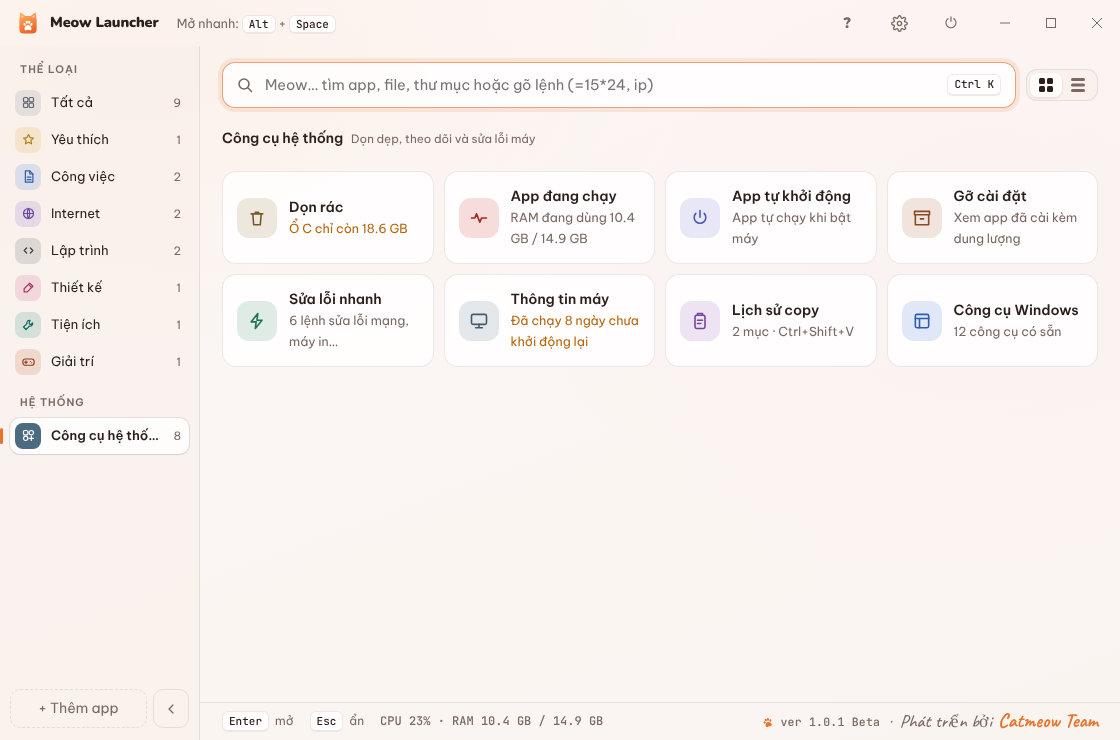
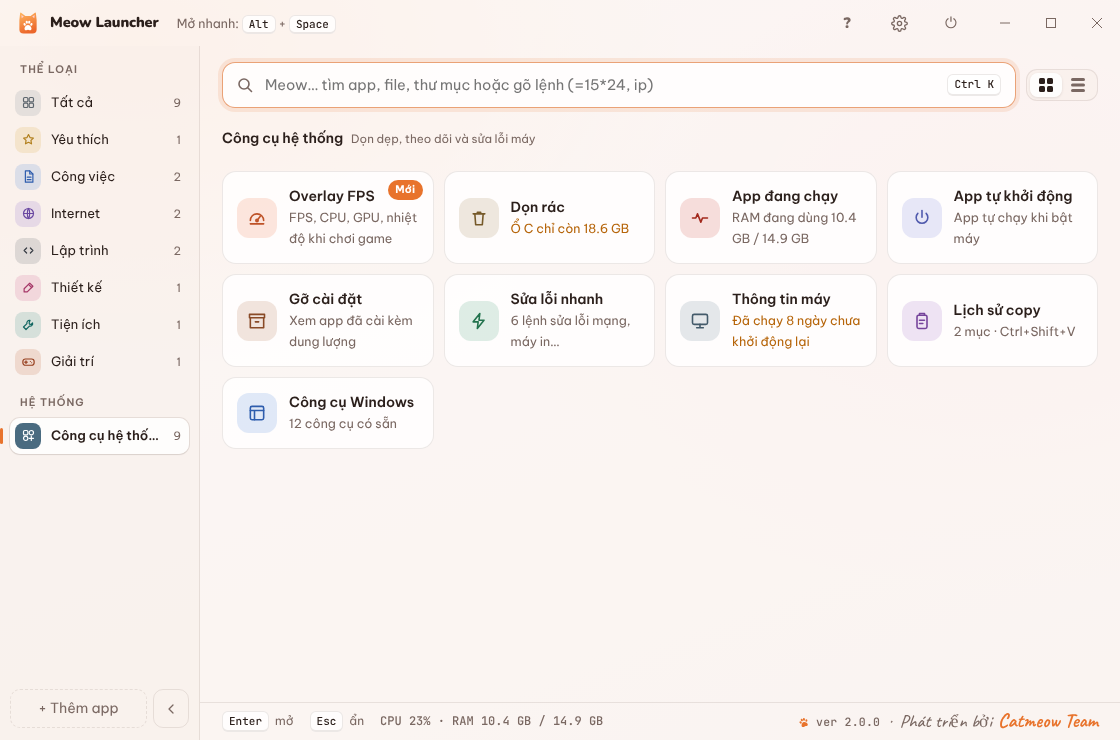
Add files via upload

diff --git a/tools/mkbanner.js b/tools/mkbanner.js
@@ -17,7 +17,7 @@ ${paws}
 <text x="440" y="200" font-family="Nunito" font-weight="900" font-size="92" fill="#2b1f1b">Meow Launcher</text>
 <text x="444" y="252" font-family="Be Vietnam Pro" font-weight="600" font-size="28" fill="#7a6862">Mở app theo thể loại chỉ với Alt + Space</text>
 <text x="444" y="292" font-family="Be Vietnam Pro" font-weight="600" font-size="22" fill="#a08f88">A cute cat-themed launcher &amp; PC care tool for Windows</text>
-<g transform="translate(444 322)"><rect width="196" height="40" rx="20" fill="#e8732c"/><text x="98" y="27" text-anchor="middle" font-family="Be Vietnam Pro" font-weight="600" font-size="17" fill="#fff">ver 1.0.1 Beta</text></g>
+<g transform="translate(444 322)"><rect width="196" height="40" rx="20" fill="#e8732c"/><text x="98" y="27" text-anchor="middle" font-family="Be Vietnam Pro" font-weight="600" font-size="17" fill="#fff">ver 2.0.0</text></g>
 <text x="660" y="349" font-family="Be Vietnam Pro" font-weight="600" font-size="17" fill="#a08f88">Phát triển bởi Catmeow Team</text>
 </svg>`.normalize('NFC');
 const strip = `<svg xmlns="http://www.w3.org/2000/svg" width="900" height="200" viewBox="0 0 900 200"><rect width="900" height="200" rx="24" fill="#faf6f4"/>

diff --git a/tools/mksidebar.js b/tools/mksidebar.js
@@ -27,7 +27,7 @@ function sidebar({ top, bottom, bubble, line1, line2 }) {
   <rect x="134" y="420" width="60" height="5" rx="2.5" fill="#fff" opacity=".6"/>
   <text x="164" y="462" text-anchor="middle" font-family="Be Vietnam Pro" font-weight="600" font-size="19" fill="#fff">${line1}</text>
   <text x="164" y="490" text-anchor="middle" font-family="Be Vietnam Pro" font-weight="600" font-size="16" fill="#fff" opacity=".85">${line2}</text>
-  <text x="164" y="598" text-anchor="middle" font-family="Be Vietnam Pro" font-weight="600" font-size="13" fill="#fff" opacity=".8">ver 1.0.1 Beta · Catmeow Team</text>
+  <text x="164" y="598" text-anchor="middle" font-family="Be Vietnam Pro" font-weight="600" font-size="13" fill="#fff" opacity=".8">ver 2.0.0 · Catmeow Team</text>
   </svg>`;
 }
 const render = (svg, out) => {

diff --git a/tools/guide_src.py b/tools/guide_src.py
@@ -15,6 +15,7 @@ STEPS = [
 KEYS = [
   ('Alt+Space', 'Mở hoặc ẩn Meow Launcher'),
   ('Ctrl+Shift+V', 'Mở lịch sử copy'),
+  ('Ctrl+Alt+F', 'Bật hoặc tắt overlay FPS khi chơi game'),
   ('Ctrl+K', 'Nhảy vào ô tìm kiếm'),
   ('↑ ↓ ← →', 'Chọn app'),
   ('Enter', 'Mở app đang chọn'),
@@ -27,10 +28,12 @@ CMDS = [
   ('ip', 'Xem IP nội bộ và IP công cộng của máy.'),
   ('báo cáo', 'Tìm cả file và thư mục, ưu tiên file mở gần đây.'),
   ('tắt máy', 'Tắt máy, khởi động lại, khoá máy, ngủ, hẹn giờ tắt máy.'),
+  ('fps', 'Bật hoặc tắt overlay FPS và nhiệt độ.'),
   ('dns', 'Gõ tên lỗi hoặc tên công cụ để mở thẳng công cụ đó.'),
   ('device', 'Mở công cụ có sẵn của Windows: Device Manager, Services…'),
 ]
 TOOLS = [
+  ('ov', 'Overlay FPS', '#e8602a', 'Bảng nhỏ ở góc màn hình khi chơi game: FPS, CPU, GPU, RAM và nhiệt độ.'),
   ('clean', 'Dọn rác', '#8b6b2e', 'Quét tệp tạm, thùng rác, bộ nhớ đệm trình duyệt. Xác nhận rồi mới xoá.'),
   ('proc', 'App đang chạy', '#c42b1c', 'Xem app tốn CPU, RAM. Tắt từng app hoặc nhiều app một lúc.'),
   ('startup', 'App tự khởi động', '#5b6bd6', 'Tắt bớt app tự chạy khi bật máy để khởi động nhanh hơn.'),
@@ -54,6 +57,8 @@ FAQ = [
   ('Dữ liệu của tôi lưu ở đâu?', 'Trong <code>%APPDATA%\\Meow Launcher</code>. Cài lại hay nâng cấp không mất danh sách app. Muốn chép sang máy khác: Cài đặt › Xuất ra file, sang máy mới chọn Nhập từ file.'),
   ('Vì sao có hộp xác nhận Admin?', 'Một số việc cần quyền quản trị của Windows: dọn tệp tạm hệ thống, reset mạng, sửa máy in, bật tắt app khởi động cho mọi người dùng. Bấm Không thì Meow bỏ qua mục đó.'),
   ('Tắt app có mất file chưa lưu không?', 'Không. Meow đóng app như khi bạn bấm nút X, app sẽ hỏi lưu nếu cần. App nào không chịu tắt mới hiện nút Buộc tắt để bạn tự quyết.'),
+  ('Overlay không hiện trong game?', 'Chọn chế độ hiển thị <b>Borderless</b> hoặc <b>Windowed Fullscreen</b> trong game. Chế độ Fullscreen độc quyền sẽ che mọi cửa sổ khác. Đo FPS cần quyền Admin, bấm Có khi Windows hỏi.'),
+  ('Cập nhật Meow thế nào?', 'Meow tự xem bản mới trên GitHub và báo bằng thông báo. Bấm <b>Cập nhật ngay</b>, Meow tự tải, cài đè và mở lại, giữ nguyên app và cài đặt. Muốn xem tay: Cài đặt › Cập nhật › Kiểm tra ngay.'),
   ('Gỡ Meow Launcher thế nào?', 'Mở Cài đặt Windows › Ứng dụng › Meow Launcher › Gỡ cài đặt, hoặc dùng chính mục Gỡ cài đặt trong Meow.'),
 ]
 
@@ -147,11 +152,11 @@ EN = dict(
   ('Add your apps', 'On first launch, click <b>Scan apps on this PC</b>. Meow finds shortcuts in the Start Menu and on the desktop and sorts them into categories. Or drag shortcuts straight into the window.'),
   ('Summon Meow anywhere', 'Press ' + kbd('Alt+Space') + ', type the first few letters of an app and press <kbd>Enter</kbd>. Meow runs in the system tray and is ready as soon as Windows starts.'),
  ],
- KEYS=[('Alt+Space','Show or hide Meow Launcher'),('Ctrl+Shift+V','Open clipboard history'),('Ctrl+K','Jump to the search box'),('↑ ↓ ← →','Select an app'),('Enter','Open the selected app'),('Ctrl+Enter','Open the app as administrator'),('Delete','Remove the selected app from Meow'),('Esc','Clear search, go back, then hide the window')],
- CMDS=[('=15*24','Quick math, Enter copies the result. Supports + − × ÷, %, ^ and brackets.'),('ip','Show the local and public IP of this PC.'),('report','Find files and folders too, recently opened files first.'),('shut down','Shut down, restart, lock, sleep or set a shutdown timer.'),('dns','Type a problem or tool name to open that tool directly.'),('device','Open built-in Windows tools: Device Manager, Services…')],
- TOOLS=[('clean','Clean up','#8b6b2e','Scan temp files, Recycle Bin and browser caches. Nothing is deleted until you confirm.'),('proc','Running apps','#c42b1c','See which apps use the most CPU and RAM. Close one or many at once.'),('startup','Startup apps','#5b6bd6','Turn off apps that start with Windows so your PC boots faster.'),('uninst','Uninstall','#a3562a','Installed apps with their size, uninstall right there.'),('fix','Quick fixes','#1f8a5b','Flush DNS, renew IP, reset network, fix the printer, restart Explorer.'),('info','PC info','#4a6b80','Specs, IP, MAC, drives. Copy it all for IT in one click.'),('clip','Clipboard history','#8a4fbf','Your last 50 copies, pin the ones you reuse, search them anytime.'),('win','Windows tools','#2f6fd6','Control Panel, Device Manager, Disk Management, Services…')],
+ KEYS=[('Alt+Space','Show or hide Meow Launcher'),('Ctrl+Shift+V','Open clipboard history'),('Ctrl+Alt+F','Toggle the FPS overlay while gaming'),('Ctrl+K','Jump to the search box'),('↑ ↓ ← →','Select an app'),('Enter','Open the selected app'),('Ctrl+Enter','Open the app as administrator'),('Delete','Remove the selected app from Meow'),('Esc','Clear search, go back, then hide the window')],
+ CMDS=[('=15*24','Quick math, Enter copies the result. Supports + − × ÷, %, ^ and brackets.'),('ip','Show the local and public IP of this PC.'),('report','Find files and folders too, recently opened files first.'),('shut down','Shut down, restart, lock, sleep or set a shutdown timer.'),('fps','Turn the FPS & temperature overlay on or off.'),('dns','Type a problem or tool name to open that tool directly.'),('device','Open built-in Windows tools: Device Manager, Services…')],
+ TOOLS=[('ov','FPS overlay','#e8602a','A small panel in a screen corner while gaming: FPS, CPU, GPU, RAM and temperatures.'),('clean','Clean up','#8b6b2e','Scan temp files, Recycle Bin and browser caches. Nothing is deleted until you confirm.'),('proc','Running apps','#c42b1c','See which apps use the most CPU and RAM. Close one or many at once.'),('startup','Startup apps','#5b6bd6','Turn off apps that start with Windows so your PC boots faster.'),('uninst','Uninstall','#a3562a','Installed apps with their size, uninstall right there.'),('fix','Quick fixes','#1f8a5b','Flush DNS, renew IP, reset network, fix the printer, restart Explorer.'),('info','PC info','#4a6b80','Specs, IP, MAC, drives. Copy it all for IT in one click.'),('clip','Clipboard history','#8a4fbf','Your last 50 copies, pin the ones you reuse, search them anytime.'),('win','Windows tools','#2f6fd6','Control Panel, Device Manager, Disk Management, Services…')],
  TIPS=[('App groups','Create a group like “Start of shift” and open all of it with one click.'),('Right-click','Right-click an app to pin it, rename it, move it, run it as admin or open its folder.'),('Your own categories','Click <b>+ Add apps → Add category</b>. Right-click a category to rename or delete it.'),('Tidy desktop','Shortcuts you drag into Meow are moved to a backup folder. Get them back in Settings › Restore.'),('Popup style','Settings › Window style › Popup: just a search box in the middle of the screen that hides after you pick an app.'),('Colors','Tabby, White, Pink, Gray, Midnight or Match Windows. The tray icon changes too.')],
- FAQ=[('Nothing happens when I press Alt+Space?','Another app is using that key. Meow switches to <kbd>Ctrl</kbd> + <kbd>Alt</kbd> + <kbd>Space</kbd> and tells you. Pick another combination in Settings › Shortcuts.'),('Why doesn’t the X button quit the app?','X only hides Meow to the system tray so the shortcut keeps working. To quit: right-click the paw icon in the tray › Quit.'),('Where is my data stored?','In <code>%APPDATA%\\Meow Launcher</code>. Reinstalling or updating keeps your apps. To move to another PC: Settings › Export to file, then Import from file on the new PC.'),('Why do I see an admin prompt?','Some tasks need Windows administrator rights: cleaning system temp files, resetting the network, fixing the printer, changing startup apps for all users. Click No and Meow skips that item.'),('Will closing an app lose unsaved work?','No. Meow closes apps like the X button does, so they can ask you to save. Only apps that refuse get a Force close button, and you decide.'),('How do I uninstall Meow Launcher?','Open Windows Settings › Apps › Meow Launcher › Uninstall, or use Uninstall inside Meow.')],
+ FAQ=[('Nothing happens when I press Alt+Space?','Another app is using that key. Meow switches to <kbd>Ctrl</kbd> + <kbd>Alt</kbd> + <kbd>Space</kbd> and tells you. Pick another combination in Settings › Shortcuts.'),('Why doesn’t the X button quit the app?','X only hides Meow to the system tray so the shortcut keeps working. To quit: right-click the paw icon in the tray › Quit.'),('Where is my data stored?','In <code>%APPDATA%\\Meow Launcher</code>. Reinstalling or updating keeps your apps. To move to another PC: Settings › Export to file, then Import from file on the new PC.'),('Why do I see an admin prompt?','Some tasks need Windows administrator rights: cleaning system temp files, resetting the network, fixing the printer, changing startup apps for all users. Click No and Meow skips that item.'),('Will closing an app lose unsaved work?','No. Meow closes apps like the X button does, so they can ask you to save. Only apps that refuse get a Force close button, and you decide.'),('The overlay doesn’t show in my game?','Set the game to <b>Borderless</b> or <b>Windowed Fullscreen</b>. Exclusive Fullscreen covers every other window. Counting FPS needs administrator rights, click Yes when Windows asks.'),('How do I update Meow?','Meow checks GitHub for new versions and notifies you. Click <b>Update now</b>: Meow downloads, installs over the old version and reopens, keeping your apps and settings. To check by hand: Settings › Updates › Check now.'),('How do I uninstall Meow Launcher?','Open Windows Settings › Apps › Meow Launcher › Uninstall, or use Uninstall inside Meow.')],
  L=dict(start='Get started', steps='Three steps', kb='Keyboard', keys='Shortcuts', keynote='Change shortcuts in Settings › Shortcuts.', sb='Search box', cmds='Quick commands', tcap='Sidebar › System tools', tools='Look after your PC', tipc='Tips', tips='Work faster', faqc='FAQ', faq='Common questions', tryit='Try', trytitle='Try it'),
 )
 VI_L = dict(start='Bắt đầu', steps='Ba bước để dùng', kb='Bàn phím', keys='Phím tắt', keynote='Đổi phím tắt trong Cài đặt › Phím tắt.', sb='Ô tìm kiếm', cmds='Gõ lệnh nhanh', tcap='Thanh bên › Công cụ hệ thống', tools='Chăm sóc máy', tipc='Mẹo', tips='Dùng cho sướng tay', faqc='Hỏi đáp', faq='Câu hỏi thường gặp', tryit='Thử', trytitle='Thử ngay')

diff --git a/docs/RELEASE_v2.0.0.md b/docs/RELEASE_v2.0.0.md
@@ -1,0 +1,24 @@
+## 🐾 Meow Launcher ver 2.0.0
+
+Bản lớn đầu tiên! Meow giờ biết đếm FPS khi anh chơi game và tự báo khi có bản mới.
+
+### 📥 Cài đặt
+1. Tải **`MeowLauncherSetup-2.0.0.exe`** ở mục *Assets* bên dưới.
+2. Windows hiện *“Windows đã bảo vệ máy tính của bạn”* thì bấm **Thông tin thêm → Vẫn chạy**.
+3. Đang dùng bản 1.0.1 Beta thì cứ cài đè, danh sách app và cài đặt được giữ nguyên.
+
+### ✨ Có gì mới
+- 🎮 **Overlay FPS & nhiệt độ**: nhấn <kbd>Ctrl</kbd> + <kbd>Alt</kbd> + <kbd>F</kbd> để hiện FPS, CPU, GPU, RAM và nhiệt độ ở góc màn hình khi chơi game
+- 🔔 **Tự cập nhật**: có bản mới là Meow báo, bấm một nút là cập nhật xong
+- 🪶 **Nhẹ RAM hơn**: bớt một tiến trình nền, nằm yên dưới khay thì trả RAM thừa cho Windows
+- 🌏 Cài đè bản mới không hỏi lại ngôn ngữ
+
+### 💡 Mẹo cho overlay
+- Chọn chế độ **Borderless** hoặc **Windowed Fullscreen** trong game để overlay hiện trên game.
+- Đo FPS cần quyền Admin: bấm **Có** khi Windows hỏi.
+
+### 💻 Yêu cầu
+Windows 10 hoặc 11, 64-bit.
+
+---
+<sub>Phát triển bởi Catmeow Team · Gặp lỗi gì cứ mở Issue nha, Meow sửa liền!</sub>

diff --git a/CHANGELOG.md b/CHANGELOG.md
@@ -1,5 +1,20 @@
 # Nhật ký thay đổi 🐾
 
+## ver 2.0.0
+
+**Mới**
+- 🎮 **Overlay FPS & nhiệt độ**: bảng nhỏ ở góc màn hình khi chơi game, hiện FPS, CPU, GPU, RAM và nhiệt độ. Bật tắt bằng <kbd>Ctrl</kbd> + <kbd>Alt</kbd> + <kbd>F</kbd>, chọn góc hiển thị, đổi phím tắt trong **Công cụ hệ thống › Overlay FPS**.
+- 🔔 **Tự cập nhật**: Meow tự xem bản mới trên GitHub, báo bằng thông báo và banner. Bấm **Cập nhật ngay** là tải, cài đè và mở lại, giữ nguyên dữ liệu. Tắt được trong **Cài đặt › Cập nhật**.
+- Gõ `fps` hoặc `cập nhật` ở ô tìm kiếm để mở nhanh.
+
+**Nhẹ hơn**
+- Gộp phần vẽ giao diện vào tiến trình chính, bớt một tiến trình nền.
+- Nằm yên dưới khay quá 1 phút thì bỏ chỉ mục tìm file, dọn bộ nhớ và trả RAM thừa cho Windows.
+- Chỉ mục tìm file chỉ dựng khi mở cửa sổ, không chạy lúc vừa bật máy.
+
+**Sửa**
+- Cài đè bản mới không còn hỏi lại ngôn ngữ.
+
 ## ver 1.0.1 Beta
 
 **Mới**
